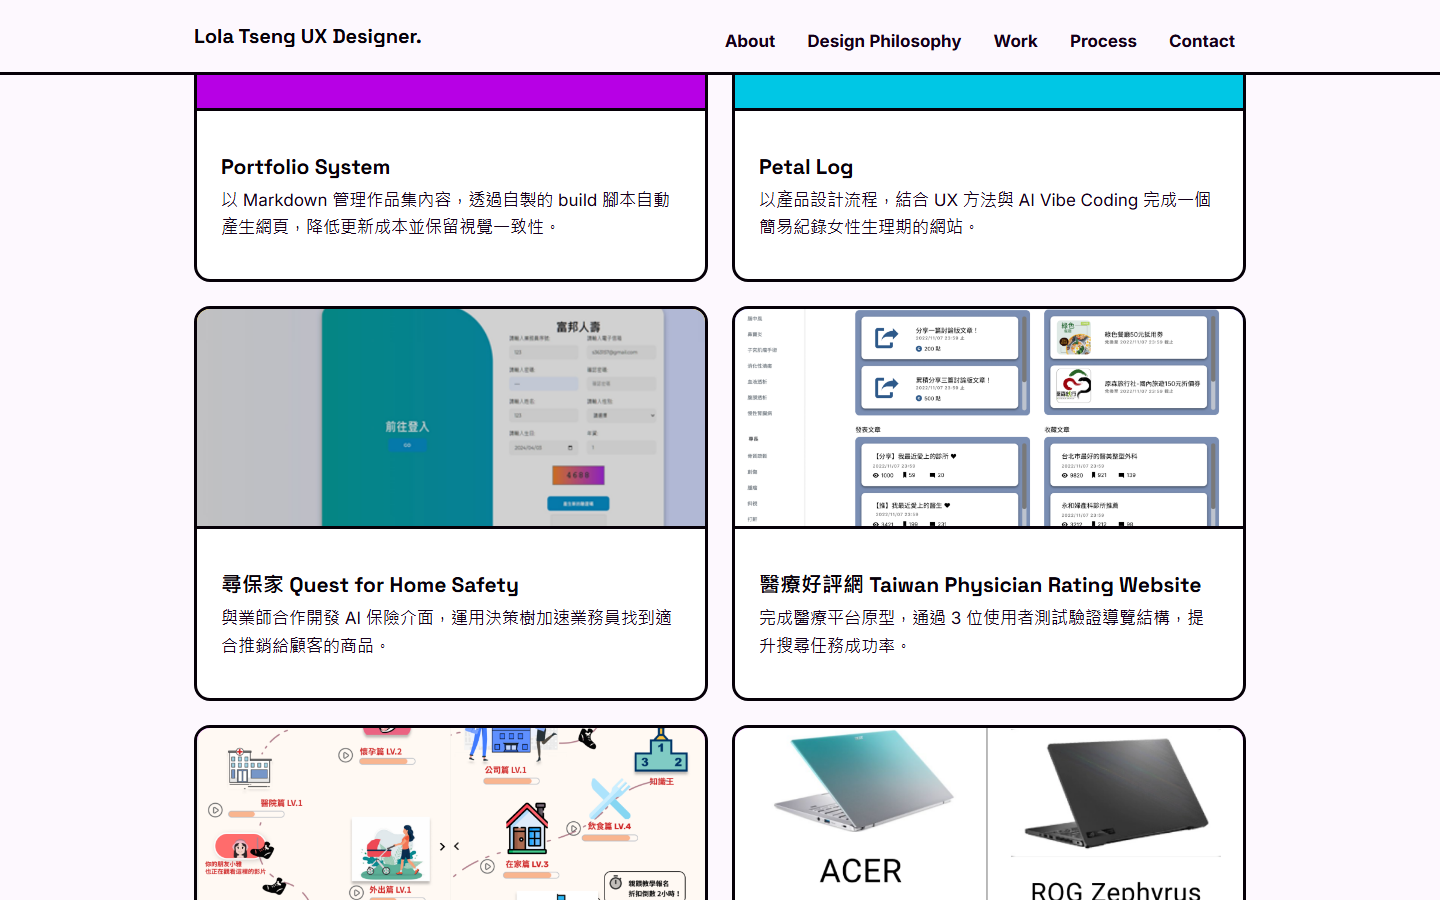
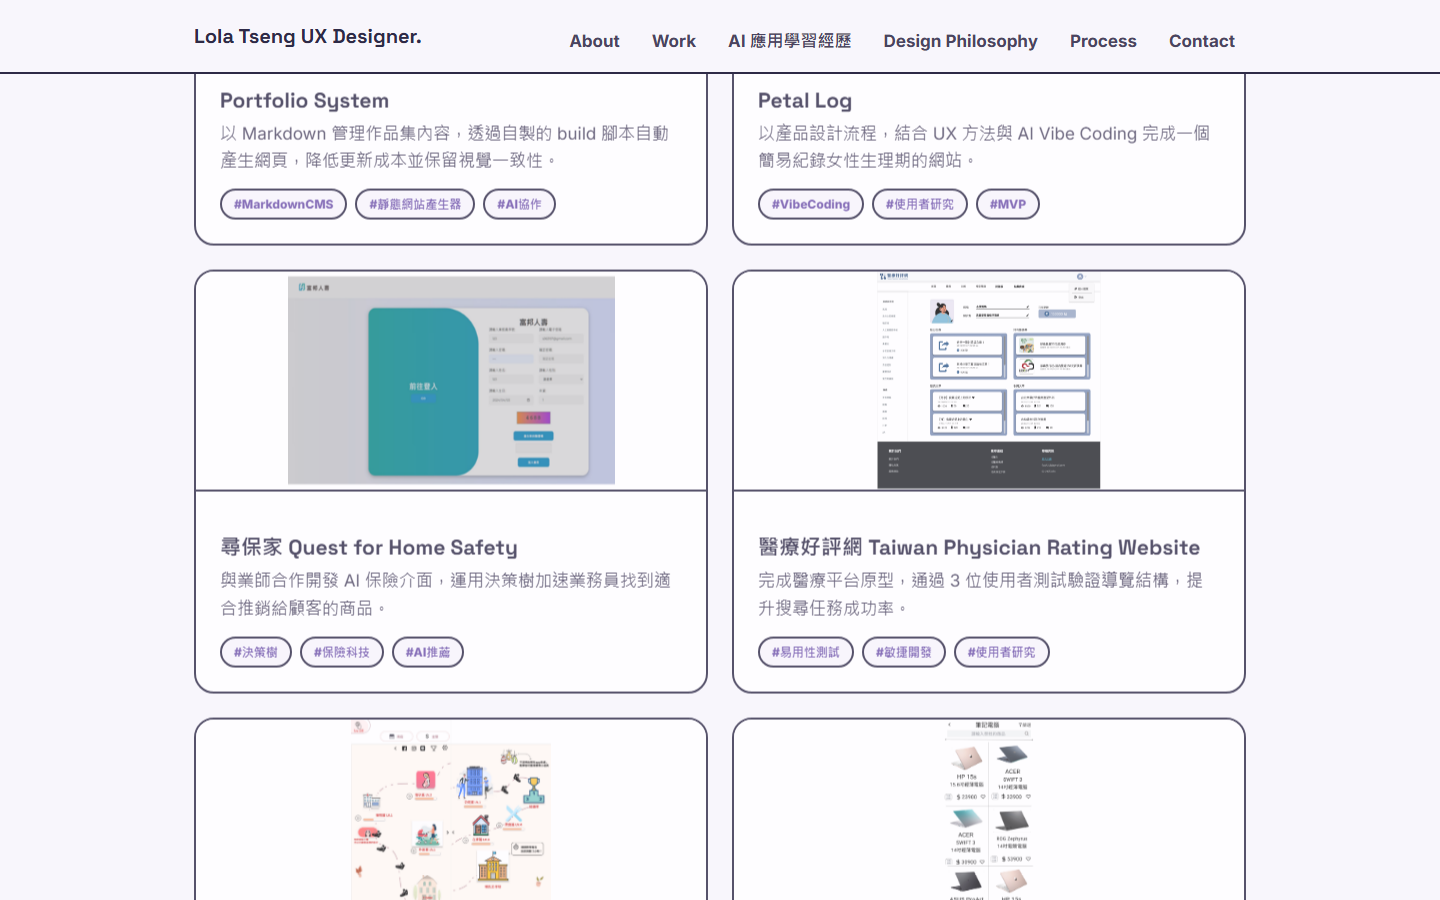
0709-2_動態Fancy效果

diff --git a/styles/site.css b/styles/site.css
@@ -7,14 +7,14 @@
    ========================================================= */
 
 :root {
-  /* Colors */
-  --ink: #060008;
-  --paper: #fdf8fe;
-  --accent: #00C7E5;
-  --accent2: #b700e5;
-  --accent3: #ffcc00;
+  /* Colors — muted blue (calm/trust) + deep violet (empathy/creativity) + warm apricot (human warmth) */
+  --ink: #2E2A47;
+  --paper: #F8F6FC;
+  --accent: #5B7FBF;
+  --accent2: #6B4FA8;
+  --accent3: #E8A65C;
   --card: #fff;
-  --muted: #140019;
+  --muted: #4A4460;
 
   /* Fonts */
   --font-heading: "Space Grotesk", Inter, Arial, sans-serif;
@@ -33,7 +33,7 @@ img { display: block; max-width: 100%; height: auto; }
 .wrap { max-width: 1100px; margin: 0 auto; padding: 0 24px; }
 
 /* Navigation */
-nav { position: sticky; top: 0; z-index: 50; background: var(--paper); border-bottom: 3px solid var(--ink); }
+nav { position: sticky; top: 0; z-index: 50; background: var(--paper); border-bottom: 2px solid var(--ink); }
 nav .wrap { display: flex; justify-content: space-between; align-items: center; min-height: 72px; gap: 24px; }
 .brand { font-weight: 700; font-size: 20px; }
 .navlinks { display: flex; gap: 10px; list-style: none; font-weight: 700; font-size: 14px; flex-wrap: wrap; }
@@ -41,7 +41,7 @@ nav .wrap { display: flex; justify-content: space-between; align-items: center; 
 .navlinks a:hover { background: var(--ink); color: var(--paper); }
 
 /* Section rhythm */
-section { padding: 84px 0; border-bottom: 3px solid var(--ink); }
+section { padding: 84px 0; border-bottom: 2px solid var(--ink); }
 section:last-of-type { border-bottom: none; }
 
 /* Scroll reveal (see scripts/reveal.js) */
@@ -100,7 +100,7 @@ li { font-size: 17px; color: var(--muted); margin: 7px 0; }
 table { width: 100%; border-collapse: collapse; background: var(--card); }
 th, td { border: 2px solid var(--ink); padding: 12px; text-align: left; }
 blockquote { border-left: 4px solid var(--ink); padding-left: 16px; }
-figure { border: 3px solid var(--ink); border-radius: 16px; overflow: hidden; background: var(--card); }
+figure { border: 2px solid var(--ink); border-radius: 18px; overflow: hidden; background: var(--card); }
 footer { padding: 44px 0; text-align: center; font-size: 14px; color: #777; }
 
 @media (max-width: 768px) {
@@ -113,11 +113,25 @@ footer { padding: 44px 0; text-align: center; font-size: 14px; color: #777; }
    Home page only (index.html)
    ========================================================= */
 .hero {
-  background: linear-gradient(120deg, var(--accent2), var(--accent), var(--accent3), var(--accent2));
+  position: relative;
+  overflow: hidden;
+  background: linear-gradient(120deg, var(--accent2), var(--accent), var(--accent2));
   background-size: 300% 300%;
-  animation: heroGradient 14s ease infinite;
+  animation: heroGradient 16s ease infinite;
   color: var(--paper);
+  --mx: 50%;
+  --my: 40%;
 }
+.hero::before {
+  content: "";
+  position: absolute;
+  inset: 0;
+  z-index: 0;
+  background: radial-gradient(560px circle at var(--mx) var(--my), rgba(255, 255, 255, .22), transparent 60%);
+  transition: opacity .4s ease;
+  pointer-events: none;
+}
+.hero > .wrap { position: relative; z-index: 1; }
 .hero h1 { font-size: clamp(38px, 7vw, 72px); max-width: 880px; }
 .hero p { color: rgba(255, 255, 255, .88); font-size: 19px; max-width: 680px; margin-top: 22px; }
 .cta { display: flex; gap: 14px; flex-wrap: wrap; margin-top: 34px; }
@@ -127,45 +141,51 @@ footer { padding: 44px 0; text-align: center; font-size: 14px; color: #777; }
 .about-grid { display: grid; grid-template-columns: 1.15fr .85fr; gap: 56px; align-items: start; }
 .skills { display: flex; flex-wrap: wrap; gap: 10px; margin-top: 24px; }
 .skill-pill { background: var(--card); border: 2px solid var(--ink); padding: 8px 16px; border-radius: 100px; font-size: 14px; font-weight: 800; }
-.about-photo { background: var(--accent); border: 3px solid var(--ink); border-radius: 16px; aspect-ratio: 3/4; overflow: hidden; display: flex; align-items: center; justify-content: center; color: var(--paper); font-weight: 800; }
+.about-photo { background: var(--accent); border: 2px solid var(--ink); border-radius: 18px; aspect-ratio: 3/4; overflow: hidden; display: flex; align-items: center; justify-content: center; color: var(--paper); font-weight: 800; }
 .about-photo img { width: 100%; height: 100%; object-fit: cover; }
 
 .philosophy { background: var(--ink); color: var(--paper); }
 .philosophy p { color: #ccc; }
 .phi-grid { display: grid; grid-template-columns: repeat(2, 1fr); gap: 2px; margin-top: 28px; background: var(--paper); }
-.phi-card { background: var(--ink); padding: 30px; transition: background .25s ease, transform .25s ease; }
-.phi-card:hover { background: #1c0022; transform: translateY(-4px); }
+.phi-card { position: relative; overflow: hidden; background: var(--ink); padding: 30px; transition: background .25s ease, transform .25s ease; --mx: 50%; --my: 50%; }
+.phi-card:hover { background: #3D3860; transform: translateY(-4px); }
+.phi-card::after { content: ""; position: absolute; inset: 0; background: radial-gradient(220px circle at var(--mx) var(--my), rgba(255, 255, 255, .16), transparent 70%); opacity: 0; transition: opacity .3s ease; pointer-events: none; }
+.phi-card:hover::after { opacity: 1; }
 .phi-num { font-size: 14px; font-weight: 800; color: var(--accent3); }
 .phi-card h3 { font-size: 22px; margin: 12px 0 10px; }
 
 .proj-grid { display: grid; grid-template-columns: repeat(2, 1fr); gap: 24px; margin-top: 28px; }
-.proj-card { border: 3px solid var(--ink); border-radius: 16px; overflow: hidden; background: var(--card); transition: transform .25s ease, box-shadow .25s ease; }
-.proj-card:hover { transform: translate(-4px, -4px); box-shadow: 8px 8px 0 var(--ink); }
+.proj-card { position: relative; border: 2px solid var(--ink); border-radius: 20px; overflow: hidden; background: var(--card); transition: transform .3s ease, box-shadow .3s ease; --mx: 50%; --my: 50%; }
+.proj-card:hover { transform: translateY(-6px); box-shadow: 0 24px 48px -18px rgba(46, 42, 71, .45); }
+.proj-card::after { content: ""; position: absolute; inset: 0; z-index: 2; background: radial-gradient(220px circle at var(--mx) var(--my), rgba(107, 79, 168, .14), transparent 70%); opacity: 0; transition: opacity .3s ease; pointer-events: none; }
+.proj-card:hover::after { opacity: 1; }
 .proj-link { display: block; height: 100%; }
-.proj-thumb { height: 220px; background: #fff; display: flex; align-items: center; justify-content: center; color: var(--ink); font-weight: 800; border-bottom: 3px solid var(--ink); overflow: hidden; }
+.proj-thumb { height: 220px; background: #fff; display: flex; align-items: center; justify-content: center; color: var(--ink); font-weight: 800; border-bottom: 2px solid var(--ink); overflow: hidden; }
 .proj-thumb img { width: 100%; height: 100%; object-fit: contain; }
 .proj-body { padding: 24px; }
 .proj-body h3 { font-size: 21px; margin-bottom: 8px; }
 .proj-tags { display: flex; flex-wrap: wrap; gap: 8px; margin-top: 14px; }
 .tag-pill { background: var(--paper); border: 2px solid var(--ink); border-radius: 100px; padding: 4px 12px; font-size: 12px; font-weight: 800; color: var(--accent2); }
 
-.ai-journey { background: linear-gradient(135deg, var(--accent2), #4a0066); color: var(--paper); }
+.ai-journey { background: linear-gradient(135deg, var(--accent2), #4A2E7A); color: var(--paper); }
 .ai-grid { display: grid; grid-template-columns: repeat(2, 1fr); gap: 20px; margin-top: 28px; }
-.ai-card { background: rgba(255, 255, 255, .08); border: 2px solid var(--paper); border-radius: 16px; padding: 30px; transition: background .25s ease, transform .25s ease; }
+.ai-card { position: relative; overflow: hidden; background: rgba(255, 255, 255, .08); border: 2px solid var(--paper); border-radius: 18px; padding: 30px; transition: background .25s ease, transform .25s ease; --mx: 50%; --my: 50%; }
 .ai-card:hover { background: rgba(255, 255, 255, .16); transform: translateY(-4px); }
+.ai-card::after { content: ""; position: absolute; inset: 0; background: radial-gradient(220px circle at var(--mx) var(--my), rgba(255, 255, 255, .2), transparent 70%); opacity: 0; transition: opacity .3s ease; pointer-events: none; }
+.ai-card:hover::after { opacity: 1; }
 .ai-card p, .ai-card li { color: rgba(255, 255, 255, .88); }
 .ai-num { font-size: 14px; font-weight: 800; color: var(--accent3); }
 .ai-card h3 { font-size: 22px; margin: 12px 0 10px; }
 
 .process-list { display: flex; flex-direction: column; gap: 2px; margin-top: 28px; }
-.process-step { border: 2px solid var(--ink); border-radius: 12px; padding: 20px 24px; background: var(--card); }
+.process-step { border: 2px solid var(--ink); border-radius: 14px; padding: 20px 24px; background: var(--card); }
 .process-step summary { list-style: none; display: flex; justify-content: space-between; gap: 20px; font-weight: 800; font-size: 18px; cursor: pointer; }
 .process-step summary::-webkit-details-marker { display: none; }
 .process-step[open] .plus { transform: rotate(45deg); }
 
 .playground { background: var(--accent3); }
 .pg-grid { display: grid; grid-template-columns: repeat(3, 1fr); gap: 20px; margin-top: 28px; }
-.pg-card { border: 2px dashed var(--ink); border-radius: 12px; padding: 24px; min-height: 170px; background: rgba(255, 255, 255, .42); }
+.pg-card { border: 2px dashed var(--ink); border-radius: 14px; padding: 24px; min-height: 170px; background: rgba(255, 255, 255, .42); }
 .pg-card h3 { font-size: 19px; margin-bottom: 12px; }
 
 .journal-list { margin-top: 28px; }
@@ -177,13 +197,13 @@ footer { padding: 44px 0; text-align: center; font-size: 14px; color: #777; }
 .life { background: var(--accent2); color: var(--paper); }
 .life p { color: rgba(255, 255, 255, .82); }
 .life-grid { display: grid; grid-template-columns: repeat(5, 1fr); gap: 16px; margin-top: 28px; }
-.life-card { border: 2px solid var(--paper); border-radius: 12px; padding: 18px 16px; aspect-ratio: 1/1; display: flex; flex-direction: column; justify-content: space-between; }
+.life-card { border: 2px solid var(--paper); border-radius: 14px; padding: 18px 16px; aspect-ratio: 1/1; display: flex; flex-direction: column; justify-content: space-between; }
 .life-card:hover { background: var(--paper); color: var(--accent2); }
 .life-card:hover p { color: var(--accent2); }
 .ic { font-size: 28px; font-weight: 900; }
 
-.contact-box { margin-top: 34px; border: 3px solid var(--ink); border-radius: 16px; background: var(--card); max-width: 640px; padding: 24px; }
-.msg { padding: 12px 16px; border-radius: 12px; margin-bottom: 12px; font-size: 15px; max-width: 88%; }
+.contact-box { margin-top: 34px; border: 2px solid var(--ink); border-radius: 18px; background: var(--card); max-width: 640px; padding: 24px; }
+.msg { padding: 12px 16px; border-radius: 14px; margin-bottom: 12px; font-size: 15px; max-width: 88%; }
 .msg.them { background: #eee; border-bottom-left-radius: 2px; font-weight: 800; }
 .msg.me { background: var(--accent2); color: var(--paper); margin-left: auto; border-bottom-right-radius: 2px; }
 .contact-links { display: flex; gap: 10px; flex-wrap: wrap; margin-top: 16px; }
@@ -199,14 +219,14 @@ footer { padding: 44px 0; text-align: center; font-size: 14px; color: #777; }
 /* =========================================================
    Case study pages only (case-studies/*.html)
    ========================================================= */
-header.hero { padding: 84px 0 46px; border-bottom: 3px solid var(--ink); }
+header.hero { padding: 84px 0 46px; border-bottom: 2px solid var(--ink); }
 header.hero h1 { font-size: clamp(42px, 7vw, 78px); max-width: 920px; }
 .summary { font-size: 20px; color: rgba(255, 255, 255, .88); max-width: 720px; margin-top: 24px; }
-.cover { margin-top: 42px; border: 3px solid var(--ink); border-radius: 14px; overflow: hidden; background: #fff; aspect-ratio: 16/10; display: flex; align-items: center; justify-content: center; color: var(--ink); font-weight: 800; }
+.cover { margin-top: 42px; border: 2px solid var(--ink); border-radius: 18px; overflow: hidden; background: #fff; aspect-ratio: 16/10; display: flex; align-items: center; justify-content: center; color: var(--ink); font-weight: 800; }
 .cover img { width: 100%; height: 100%; object-fit: contain; }
 
 .snapshot { background: var(--card); }
-.snapshot table { width: 100%; border-collapse: collapse; background: var(--card); border: 3px solid var(--ink); border-radius: 14px; overflow: hidden; }
+.snapshot table { width: 100%; border-collapse: collapse; background: var(--card); border: 2px solid var(--ink); border-radius: 18px; overflow: hidden; }
 .snapshot th, .snapshot td { border: 2px solid var(--ink); padding: 16px; text-align: left; vertical-align: top; }
 
 .two-col { display: grid; grid-template-columns: .85fr 1.15fr; gap: 48px; align-items: start; }
@@ -216,7 +236,7 @@ header.hero h1 { font-size: clamp(42px, 7vw, 78px); max-width: 920px; }
 
 .highlight { background: var(--ink); color: var(--paper); }
 .highlight p, .highlight li { color: #d8d8d8; }
-.highlight figure { background: #191919; border-color: var(--paper); }
+.highlight figure { background: #221F38; border-color: var(--paper); }
 .highlight table, .highlight th, .highlight td { color: var(--ink); }
 
 .back-row { display: flex; justify-content: space-between; gap: 14px; flex-wrap: wrap; margin-top: 28px; }

diff --git a/scripts/cursor-fx.js b/scripts/cursor-fx.js
@@ -1,0 +1,17 @@
+(function () {
+  if (window.matchMedia("(prefers-reduced-motion: reduce)").matches) return;
+  if (window.matchMedia("(pointer: coarse)").matches) return;
+
+  function track(el) {
+    el.addEventListener("mousemove", function (e) {
+      var rect = el.getBoundingClientRect();
+      var x = ((e.clientX - rect.left) / rect.width) * 100;
+      var y = ((e.clientY - rect.top) / rect.height) * 100;
+      el.style.setProperty("--mx", x + "%");
+      el.style.setProperty("--my", y + "%");
+    });
+  }
+
+  var els = document.querySelectorAll(".hero, .proj-card, .phi-card, .ai-card");
+  els.forEach(track);
+})();

diff --git a/scripts/build.js b/scripts/build.js
@@ -361,6 +361,7 @@ ${bodySections.map(renderProjectSection).join("\n")}
 </main>
 <footer><div class="wrap">Designed & coded by Lola Tseng.</div></footer>
 <script src="../scripts/reveal.js"></script>
+<script src="../scripts/cursor-fx.js"></script>
 ${isServe ? `<script src="../scripts/live-reload.js"></script>` : ""}
 </body>
 </html>
@@ -408,6 +409,7 @@ ${renderHero(hero)}
 ${sections.map(renderSection).join("\n")}
 <footer><div class="wrap"><div>Designed & coded by Lola Tseng.</div><div class="stack">Edit content in content.md. Generated by scripts/build.js.</div></div></footer>
 <script src="scripts/reveal.js"></script>
+<script src="scripts/cursor-fx.js"></script>
 ${isServe ? `<script src="scripts/live-reload.js"></script>` : ""}
 </body>
 </html>

diff --git a/case-studies/01-Portfolio.html b/case-studies/01-Portfolio.html
@@ -23,6 +23,7 @@
 </main>
 <footer><div class="wrap">Designed & coded by Lola Tseng.</div></footer>
 <script src="../scripts/reveal.js"></script>
+<script src="../scripts/cursor-fx.js"></script>
 <script src="../scripts/live-reload.js"></script>
 </body>
 </html>

diff --git a/case-studies/02-petal-log.html b/case-studies/02-petal-log.html
@@ -23,6 +23,7 @@
 </main>
 <footer><div class="wrap">Designed & coded by Lola Tseng.</div></footer>
 <script src="../scripts/reveal.js"></script>
+<script src="../scripts/cursor-fx.js"></script>
 <script src="../scripts/live-reload.js"></script>
 </body>
 </html>

diff --git a/case-studies/03-Quest_for_Home_Safety.html b/case-studies/03-Quest_for_Home_Safety.html
@@ -23,6 +23,7 @@
 </main>
 <footer><div class="wrap">Designed & coded by Lola Tseng.</div></footer>
 <script src="../scripts/reveal.js"></script>
+<script src="../scripts/cursor-fx.js"></script>
 <script src="../scripts/live-reload.js"></script>
 </body>
 </html>

diff --git a/case-studies/04-Taiwan_Physician_Rating_Website.html b/case-studies/04-Taiwan_Physician_Rating_Website.html
@@ -23,6 +23,7 @@
 </main>
 <footer><div class="wrap">Designed & coded by Lola Tseng.</div></footer>
 <script src="../scripts/reveal.js"></script>
+<script src="../scripts/cursor-fx.js"></script>
 <script src="../scripts/live-reload.js"></script>
 </body>
 </html>

diff --git a/case-studies/05-The_Nurture_Way.html b/case-studies/05-The_Nurture_Way.html
@@ -23,6 +23,7 @@
 </main>
 <footer><div class="wrap">Designed & coded by Lola Tseng.</div></footer>
 <script src="../scripts/reveal.js"></script>
+<script src="../scripts/cursor-fx.js"></script>
 <script src="../scripts/live-reload.js"></script>
 </body>
 </html>

diff --git a/case-studies/06-Innovation_and_Design_Thinking.html b/case-studies/06-Innovation_and_Design_Thinking.html
@@ -23,6 +23,7 @@
 </main>
 <footer><div class="wrap">Designed & coded by Lola Tseng.</div></footer>
 <script src="../scripts/reveal.js"></script>
+<script src="../scripts/cursor-fx.js"></script>
 <script src="../scripts/live-reload.js"></script>
 </body>
 </html>

diff --git a/index.html b/index.html
@@ -19,6 +19,7 @@
 <section id="contact" class="contact"><div class="wrap"><span class="tag">Let's talk</span><h2>Contact</h2><div class="contact-box"><div class="msg them">Hi Lola, I want to tell you...</div><div class="msg me">你可以把合作邀請、作品集回饋或想聊的產品問題寄給我。</div><div class="contact-links"><span><a href="mailto:[email redacted]">Email me</a></span></div></div></div></section>
 <footer><div class="wrap"><div>Designed & coded by Lola Tseng.</div><div class="stack">Edit content in content.md. Generated by scripts/build.js.</div></div></footer>
 <script src="scripts/reveal.js"></script>
+<script src="scripts/cursor-fx.js"></script>
 <script src="scripts/live-reload.js"></script>
 </body>
 </html>